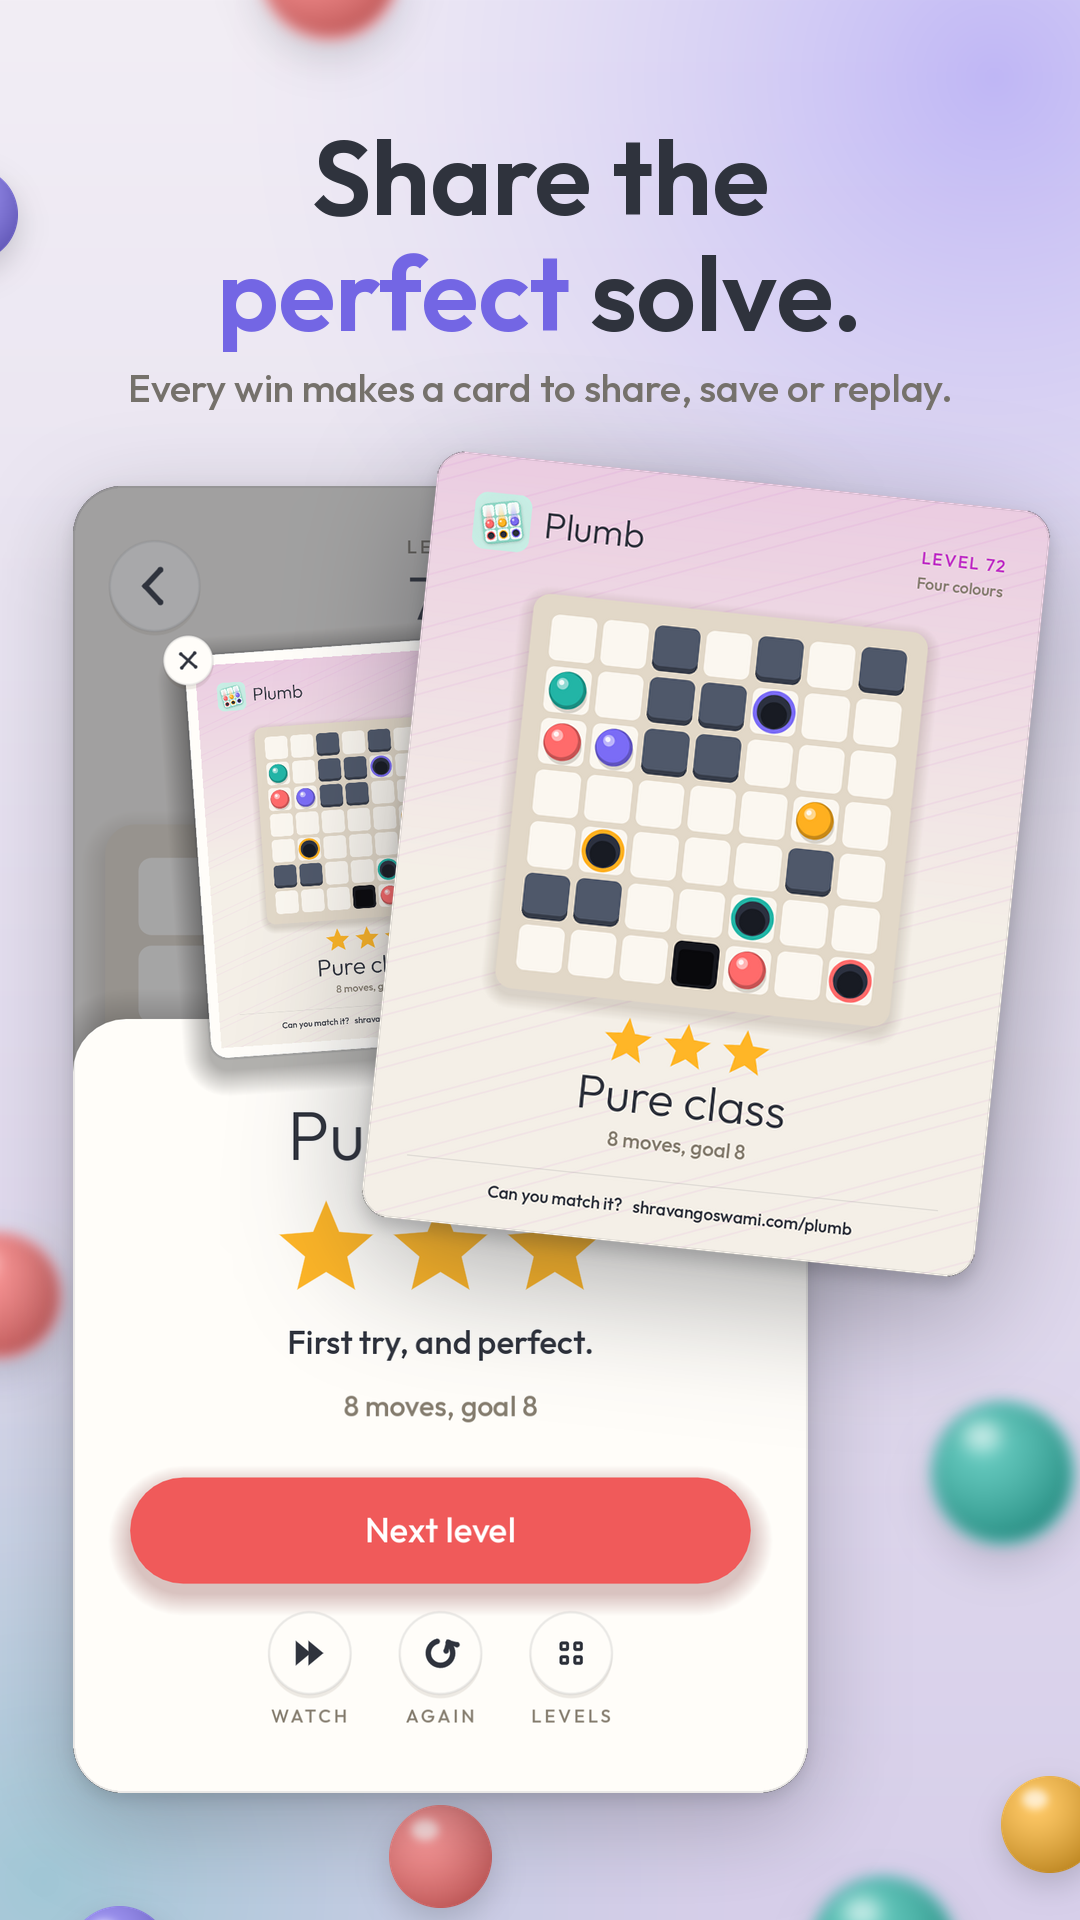
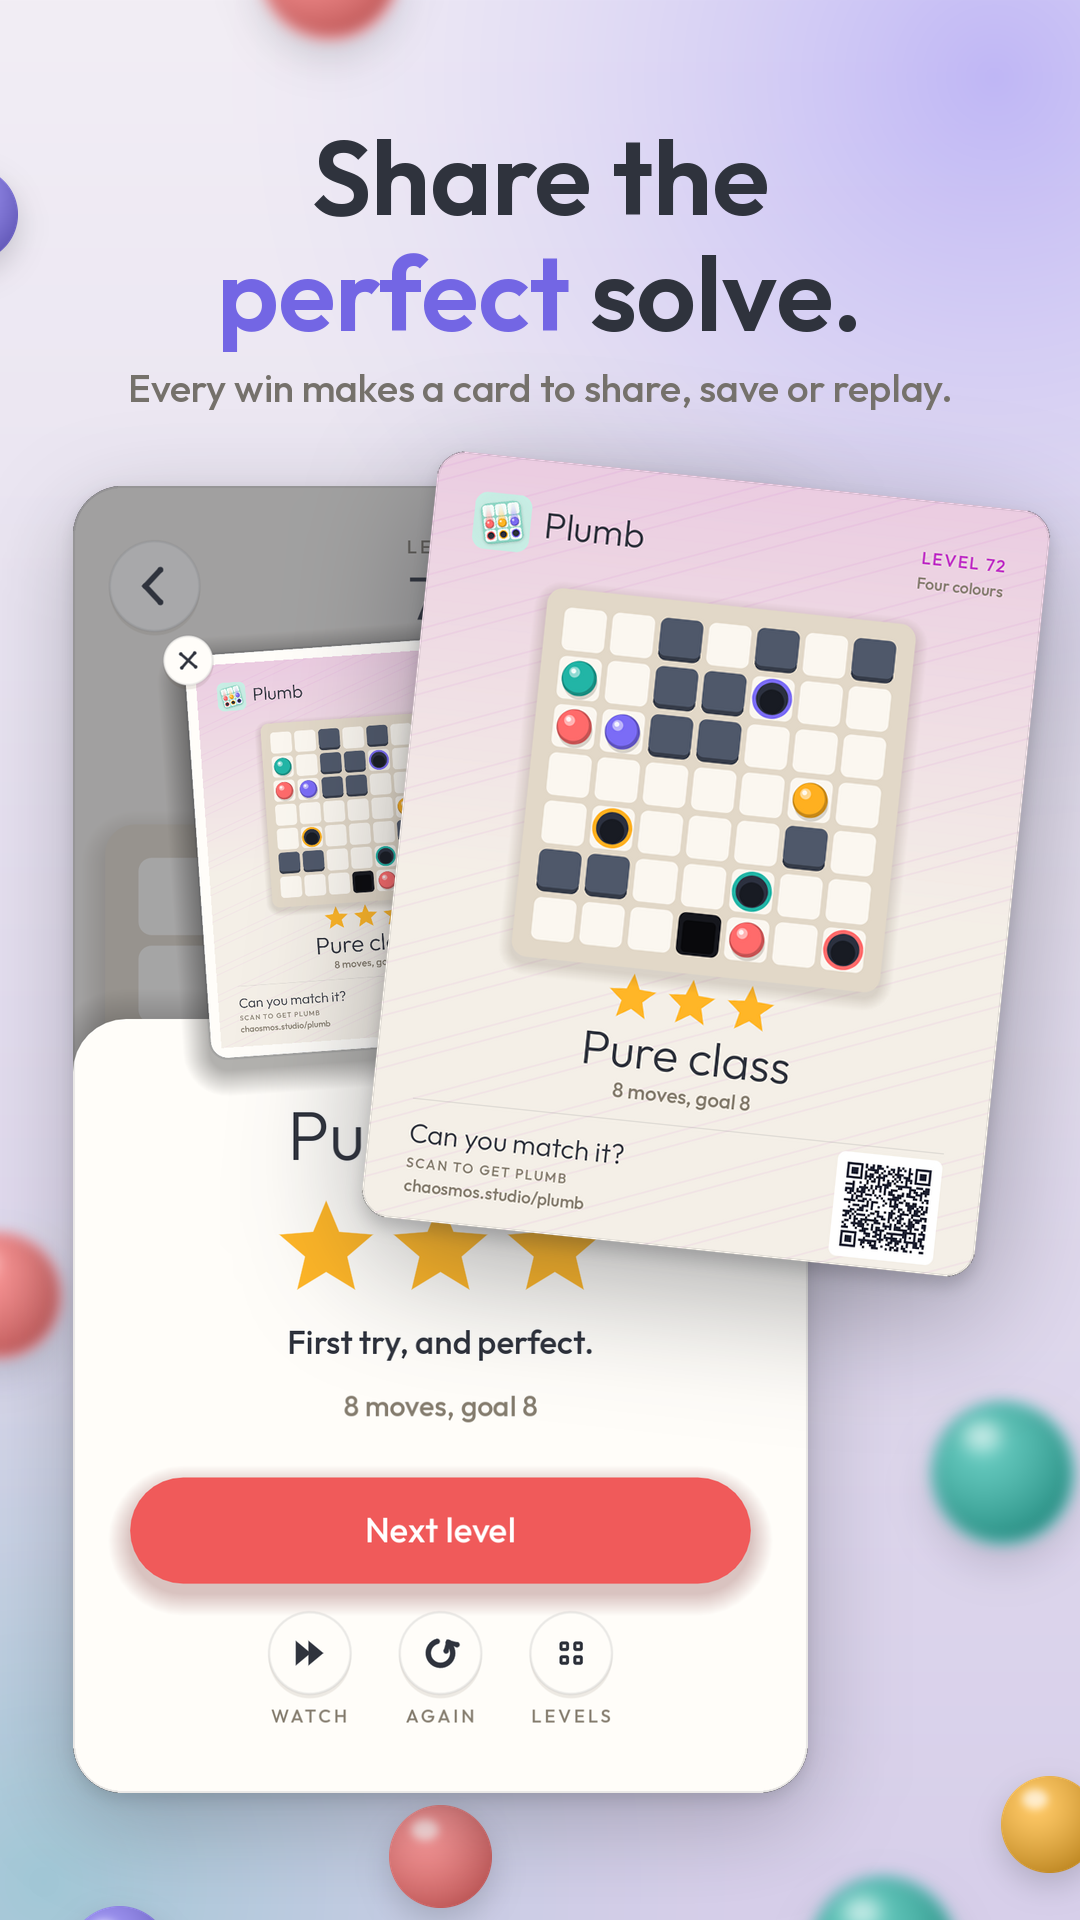
Recompose the store art for the card's code, and take reels out of the listing

Changed region(s): [[0.3667, 0.3125, 0.8556, 0.6562], [0.2444, 0.375, 0.3667, 0.5312], [0.7333, 0.5938, 0.8861, 0.6562]]

diff --git a/assets/store/listing.md b/assets/store/listing.md
@@ -10,7 +10,7 @@ Plumb: Marble Tilt Puzzle
 
 Tilt the board and roll every marble into the hole of its own colour.
 
-## Full description (1077 / 4000)
+## Full description (1017 / 4000)
 
 Plumb is a calm logic puzzle about gravity.
 
@@ -21,7 +21,7 @@ One gesture moves everything, which is what makes four directions surprisingly d
 - Every level checked by a solver and scored against the fewest moves possible, each a little harder than the last
 - Three stars for the fewest moves, with a hint that shows where every marble would land
 - Chapters that each add a new rule: gates, portals, springs, magnets, glass and more
-- Every win makes a card to share or save, and any solve plays back as a reel you can keep as a video
+- Every win makes a card to share or save
 - Colour themes and marble sets, each in light and dark
 - Undo and restart any time. No timers, no lives, no energy
 - A quiet, tactile look and an ambient soundtrack, with sound, music and vibration you can switch off
@@ -29,7 +29,7 @@ One gesture moves everything, which is what makes four directions surprisingly d
 
 ## Release notes
 
-Chapters with a new rule each, a card to share every win, reels you can save as a video, colour themes and a new icon.
+Chapters with a new rule each, a card to share every win, colour themes and a new icon.
 
 ## Category and tags
 
